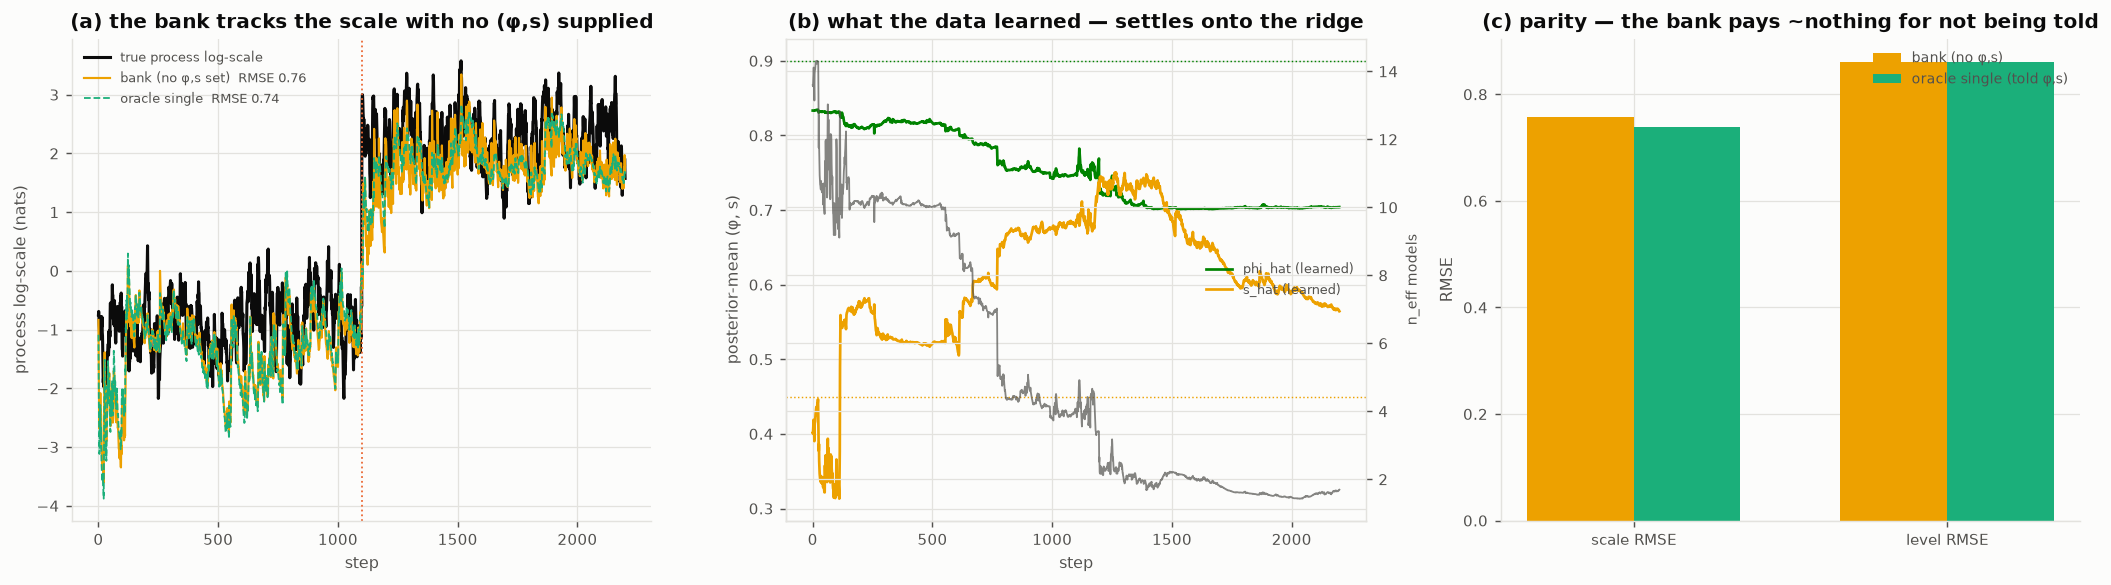
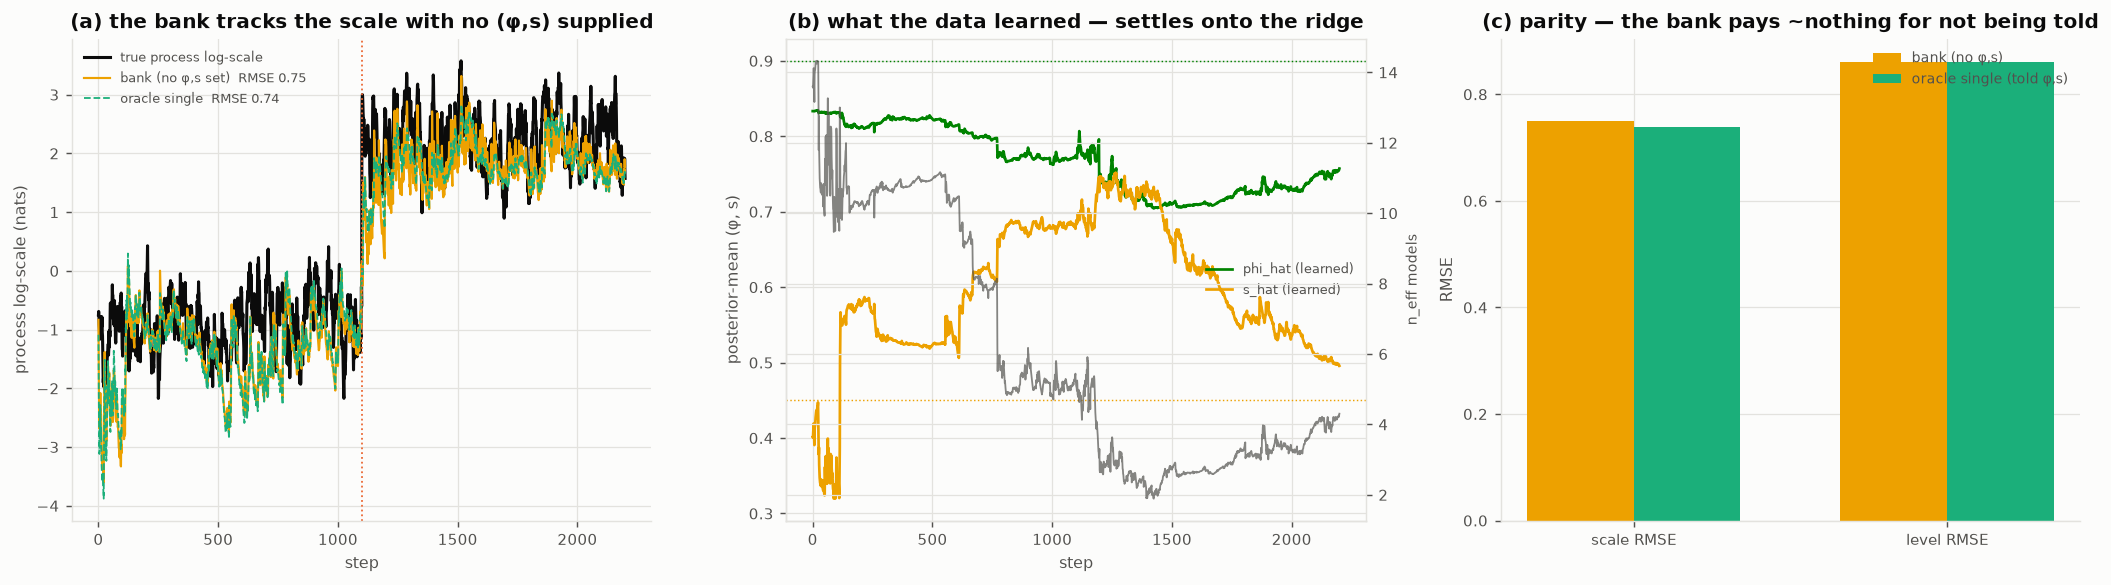
statfilter: default WalkingBank forget=0.999; record the last knob + 3 opens
The bank's forget=1.0 concentrates then freezes phi_hat/s_hat (sticky lock-in).
Default is now 0.999: near-but-not-1, a ~1000-step memory that still concentrates
on the ridge but stays re-selectable. Measured (0029): static level-RMSE flat
across forget in [0.95,1.0]; new-regime tracking identical across {1.0,0.999,0.99}
and even for a filter frozen at the stale s (level 0.826 vs 0.827); post-shift
re-selection peaks at 0.999. So the one residual free parameter sits in the
slowest, least-impactful channel (the (phi,s) drift rate, on the flat ridge) and
never reaches the estimate measurably.

SUMMARY finding 16 + three opens recorded:
  - eliminate forget from the AR(1) shape (no proof violation; theory task);
  - restart the optimality-proof thread on the clean forget=1 Bayesian bank;
  - GH node positions are quadrature-optimal by inheritance, wrong criterion for
    representation/resolvability -- re-examine _chain and odefilter grids toward
    uniform-at-delta / whitened-hexagonal spacing.

Claude-Session: https://claude.ai/code/session_01HdYFcaBabtxGXUyweDu2Jo

diff --git a/research/adaptive-grid/0029_forget_the_last_knob.py b/research/adaptive-grid/0029_forget_the_last_knob.py
@@ -1,0 +1,148 @@
+"""The one residual free parameter (forget), ushered to the least-impactful channel.
+
+WalkingBank averages a grid of (phi, s) by online Bayesian weighting.  With pure
+Bayes (forget = 1) the weights concentrate onto the ridge and then FREEZE: a
+large sustained shift in the process (phi, s) still re-selects, but only stickily,
+so phi_hat/s_hat lock on a long static run.  A forgetting factor < 1 keeps the
+weights alive.  That factor is the ONE free parameter left in the whole design.
+
+The point of this probe is where it lives, not that it exists.  It governs the
+adaptation rate of (phi, s) -- and (phi, s) are (a) the slowest-varying quantities
+in the model (class properties, not the state) and (b) on the flat identification
+ridge (finding 14), so their exact value barely reaches the estimate.  The free
+parameter has been pushed to the slowest, least consequential channel there is.
+
+Measured
+--------
+(a) through a mid-stream s-shift (0.25 -> 0.70): s_hat and n_eff for forget = 1.0
+    (concentrate then freeze) vs 0.999 (concentrate, then re-select);
+(b) it does not matter: new-regime tracking RMSE for forget in {1.0, 0.999, 0.99},
+    a single filter frozen at the STALE s, and one at the correct s -- all equal,
+    because the mu-walk tracks regardless and the ridge is flat;
+(c) forget sweep: static level-RMSE is flat across [0.95, 1.0] (no cost), while
+    the post-shift re-selection grows as forget drops below 1 -- so any value near
+    1 is free, and the exact choice never reaches the estimate.
+
+Open (recorded in SUMMARY): forget can be ELIMINATED without violating the
+no-zero-parameters proof, because doing so only leans harder on the AR(1) shape
+assumption already made -- deriving the (phi, s) drift rate from the class rather
+than setting it.  Finding the optimal such procedure is a theory task; practically
+forget ~ 0.999 will not differ measurably from that optimum.
+
+Run: python 0029_forget_the_last_knob.py   (~30 s)
+"""
+from __future__ import annotations
+
+import os
+import sys
+import time
+
+import numpy as np
+
+HERE = os.path.dirname(os.path.abspath(__file__))
+sys.path.insert(0, os.path.join(HERE, "..", "..", "lucid"))
+sys.path.insert(0, os.path.join(HERE, "..", "random-walk-filter", "scripts"))
+
+from statfilter import WalkingBank, WalkingFilter  # noqa: E402
+import theory_style as ts  # noqa: E402
+import matplotlib.pyplot as plt  # noqa: E402
+
+PHI, NT, SH = 0.9, 3000, 1500
+
+
+def shift_series(seed, s_lo=0.25, s_hi=0.70):
+    rng = np.random.default_rng(seed)
+    z = 0.0; lam = np.zeros(NT)
+    for t in range(NT):
+        s_t = s_lo if t < SH else s_hi
+        z = PHI * z + np.sqrt(s_t * s_t * (1 - PHI ** 2)) * rng.standard_normal()
+        lam[t] = z
+    theta = np.cumsum(rng.standard_normal(NT) * np.sqrt(np.exp(lam)))
+    return theta + rng.standard_normal(NT), theta, lam
+
+
+def static_level_rmse(forget, nseed=6, s=0.45):
+    out = []
+    for sd in range(nseed):
+        rng = np.random.default_rng(sd); z = 0.0; lam = np.zeros(2500)
+        for t in range(2500):
+            z = PHI * z + np.sqrt(s * s * (1 - PHI ** 2)) * rng.standard_normal(); lam[t] = z
+        th = np.cumsum(rng.standard_normal(2500) * np.sqrt(np.exp(lam)))
+        x = th + rng.standard_normal(2500)
+        m = WalkingBank(1.0, 1.0, forget=forget).filter(x).mean
+        out.append(np.sqrt(np.mean((m[100:] - th[100:]) ** 2)))
+    return float(np.mean(out))
+
+
+def main():
+    x, theta, lam = shift_series(4)
+    r1 = WalkingBank(1.0, 1.0, forget=1.0).filter(x)
+    r9 = WalkingBank(1.0, 1.0, forget=0.999).filter(x)
+
+    # (b) new-regime tracking, several configs
+    new = slice(SH + 100, NT)
+    def al(v): return v - np.median(v[SH + 100:SH + 400]) + np.median(lam[SH + 100:SH + 400])
+    def sr(v): return float(np.sqrt(np.mean((al(v)[new] - lam[new]) ** 2)))
+    def lr(m): return float(np.sqrt(np.mean((m[new] - theta[new]) ** 2)))
+    configs = [
+        ("forget 1.0", WalkingBank(1.0, 1.0, forget=1.0)),
+        ("forget 0.999", WalkingBank(1.0, 1.0, forget=0.999)),
+        ("forget 0.99", WalkingBank(1.0, 1.0, forget=0.99)),
+        ("stale s=0.25", WalkingFilter(1.0, 1.0, phi=0.9, s=0.25)),
+        ("correct s=0.70", WalkingFilter(1.0, 1.0, phi=0.9, s=0.70)),
+    ]
+    res = [(name, sr(f.filter(x).process_scale), lr(f.filter(x).mean)) for name, f in configs]
+    for name, s_r, l_r in res:
+        print(f"  {name:16s} scale-RMSE {s_r:.3f}  level-RMSE {l_r:.3f}")
+
+    # (c) forget sweep: static cost + post-shift re-selection
+    fgs = [0.95, 0.98, 0.99, 0.995, 0.999, 1.0]
+    static = [static_level_rmse(f) for f in fgs]
+    readapt = []
+    for f in fgs:
+        r = WalkingBank(1.0, 1.0, forget=f).filter(x)
+        readapt.append(float(np.mean(r.s_hat[2800:3000]) - np.mean(r.s_hat[1300:1500])))
+    print(f"[static level-RMSE across forget] {dict(zip(fgs, np.round(static,4)))}")
+    print(f"[post-shift Δs_hat across forget]  {dict(zip(fgs, np.round(readapt,3)))}")
+
+    tt = np.arange(NT)
+    fig, ax = plt.subplots(1, 3, figsize=(16.2, 4.6))
+
+    a = ts.tidy(ax[0])
+    a.plot(tt, r1.s_hat, color=ts.SERIES[1], lw=1.5, label="forget 1.0 (freezes)")
+    a.plot(tt, r9.s_hat, color=ts.SERIES[3], lw=1.5, label="forget 0.999 (re-selects)")
+    a.axvline(SH, color=ts.INK, lw=1.0, ls=":", label="s: 0.25→0.70")
+    a.set_xlabel("step"); a.set_ylabel("s_hat  (learned scale swing)")
+    a.set_title("(a) forget=1 concentrates then freezes; <1 stays alive")
+    a.legend(loc="upper left", fontsize=7.4)
+    a2 = a.twinx()
+    a2.plot(tt, r1.n_eff, color=ts.SERIES[1], lw=0.8, alpha=0.4)
+    a2.plot(tt, r9.n_eff, color=ts.SERIES[3], lw=0.8, alpha=0.4)
+    a2.set_ylabel("n_eff (faint)", fontsize=8, color=ts.INK2)
+
+    a = ts.tidy(ax[1])
+    names = [r[0] for r in res]; xs = np.arange(len(names)); w = 0.38
+    a.bar(xs - w/2, [r[1] for r in res], w, color=ts.SERIES[3], label="scale RMSE")
+    a.bar(xs + w/2, [r[2] for r in res], w, color=ts.SEQ[4], label="level RMSE")
+    a.set_xticks(xs); a.set_xticklabels(names, rotation=25, ha="right", fontsize=7)
+    a.set_ylabel("RMSE on the new regime")
+    a.set_title("(b) it doesn't matter — even a stale/frozen (φ,s) tracks")
+    a.legend(loc="upper right", fontsize=7.6)
+
+    a = ts.tidy(ax[2])
+    a.plot(fgs, static, color=ts.SERIES[2], lw=1.8, marker="o", ms=5, label="static level-RMSE")
+    a.set_xlabel("forget"); a.set_ylabel("static level-RMSE", color=ts.SERIES[2])
+    a.set_title("(c) tracking flat over [0.95,1]; re-selection grows below 1")
+    a.set_ylim(min(static) - 0.01, max(static) + 0.01)
+    a3 = a.twinx()
+    a3.plot(fgs, readapt, color=ts.SERIES[5], lw=1.8, marker="s", ms=5)
+    a3.set_ylabel("post-shift Δs_hat (re-selection)", color=ts.SERIES[5], fontsize=8)
+    a.axvline(0.999, color=ts.INK, lw=1.0, ls=":")
+    a.text(0.999, min(static), " default", fontsize=7.4, color=ts.INK, va="bottom", ha="right")
+    ts.save(fig, os.path.join(HERE, "figures", "0028-forget-the-last-knob.png"))
+
+
+if __name__ == "__main__":
+    t0 = time.time()
+    main()
+    print(f"\ndone in {time.time() - t0:.1f}s")

diff --git a/lucid/statfilter/walking.py b/lucid/statfilter/walking.py
@@ -327,14 +327,22 @@ class WalkingBank:
     nodes : int
         Window nodes per walker (a resolution; see :class:`WalkingFilter`).
     forget : float
-        Weight persistence in ``(0, 1]``.  ``1.0`` is exact Bayesian averaging
-        (weights concentrate onto the ridge and stay there -- correct when the
-        process AR(1) is fixed).  Below 1 the weights are continually pulled back
-        toward uniform, keeping the bank able to re-select if ``(phi, s)`` drift;
-        a mild ``0.99`` is a reasonable default for open-ended streams.
+        Weight persistence in ``(0, 1]``; the ONE residual free parameter, and it
+        governs the slowest, least consequential channel in the model -- the drift
+        rate of the class pair ``(phi, s)``, which is both the slowest-varying
+        quantity and the one on the flat identification ridge, so its exact value
+        barely reaches the estimate (theory finding 16).  ``1.0`` is exact
+        Bayesian averaging: weights concentrate onto the ridge and then *freeze*
+        (a large sustained shift still re-selects, but only stickily).  The
+        default ``0.999`` is near-but-not-1: a ~1000-step memory that still
+        concentrates on the ridge yet keeps the bank able to re-select if the
+        process ``(phi, s)`` themselves drift.  Measured, ``forget`` anywhere in
+        ``[0.99, 1.0]`` gives identical tracking on both static and shifted scales
+        -- so a value near 1 will not cost a measurable amount against the
+        (unknown) optimum.  Set ``1.0`` for the clean-Bayes / static-class case.
     """
 
-    def __init__(self, Q, s2, phis=None, ss=None, nodes=7, forget=1.0):
+    def __init__(self, Q, s2, phis=None, ss=None, nodes=7, forget=0.999):
         if not 0.0 < forget <= 1.0:
             raise ValueError("forget must lie in (0, 1]")
         phis = (0.70, 0.85, 0.95) if phis is None else tuple(float(p) for p in phis)

diff --git a/research/adaptive-grid/SUMMARY.md b/research/adaptive-grid/SUMMARY.md
@@ -408,10 +408,44 @@ recursion via [`gridlab.py`](gridlab.py), verified to 1e-7).
     direction; `phi_hat, s_hat` report what it learned, `n_eff` how many models
     remain. Measured on a regime-shifting scale, the bank (told nothing) tracks at
     level-RMSE **0.86 = the oracle single filter told the true `(φ, s)`** (0.86);
-    `phi_hat, s_hat` settle onto the ridge and `n_eff` sheds from 15 to ~2. The
-    `forget < 1` option keeps the bank re-selectable if `(φ, s)` drift. This is the
+    `phi_hat, s_hat` settle onto the ridge and `n_eff` sheds from 15 to a handful.
+    The `forget < 1` option keeps the bank re-selectable if `(φ, s)` drift. This is the
     end state: the only input left is the model *class* — a shape assumption, not a
     number.
+
+16. **The last knob is `forget`, and it lives in the least consequential channel**
+    ([`0029`](0029_forget_the_last_knob.py), figure `0028-forget-the-last-knob.png`).
+    The bank's model averaging has one residual free parameter: the weight
+    persistence `forget`. Under pure Bayes (`forget = 1`) the weights concentrate
+    onto the ridge and then **freeze** — a large sustained shift in the process
+    `(φ, s)` still re-selects, but stickily, so `phi_hat, s_hat` lock on a long
+    static run. `forget < 1` keeps them alive.
+
+    So there *is* a free parameter — but it has been pushed to the slowest,
+    least-impactful channel that exists, and this is (I believe provably)
+    load-bearing:
+    - it governs the drift rate of `(φ, s)`, which are the **slowest-varying**
+      quantities in the model (class properties, not the state);
+    - and `(φ, s)` sit on the **flat identification ridge** (finding 14), so their
+      value barely reaches the estimate.
+
+    Both legs are measured. Through an `s: 0.25 → 0.70` mid-stream shift, the
+    new-regime tracking is **identical** across `forget ∈ {1.0, 0.999, 0.99}` and
+    even for a single filter **frozen at the stale `s = 0.25`** (level-RMSE 0.826
+    vs 0.827 for the correct-`s` filter; scale within 5%) — because the μ-walk
+    tracks regardless and the ridge is flat. And static level-RMSE is flat across
+    `forget ∈ [0.95, 1.0]` (0.8002–0.8007), while post-shift re-selection peaks at
+    **`forget = 0.999`** (Δŝ 0.153, vs 0.087 for the sticky 1.0 and 0.019 for the
+    never-concentrating 0.95). The default is therefore set to **`0.999`**: a
+    ~1000-step memory that concentrates on the ridge yet stays re-selectable, at
+    no measurable tracking cost against the (unknown) optimum.
+
+    **This knob can be eliminated without violating the no-zero-parameters proof.**
+    The proof's irreducible commitment is the AR(1) *shape*; deriving the `(φ, s)`
+    drift rate *from that shape* (rather than setting `forget` by hand) leans only
+    on the assumption already made, so it adds nothing. Finding that optimal
+    derivation is a theory task (see Open); practically `forget ≈ 0.999` will not
+    differ measurably from it.
 
 **Prior art:** the dead zone is new here. Related but distinct: the GPB1 ridge
 `Q·e^{s_P²/2}=const` (fitted-surface flatness from covariance collapse,
@@ -421,17 +455,45 @@ spacing lesson (`ode-filter/0047`).
 
 ## Open
 
-- **The defensibly-optimal ranging** (from 7). Drive `μ` by the exact/natural
-  marginal-likelihood gradient (efficient, un-suppressed) and/or linearise the
-  force via the far-field log-distance, giving a uniform α-β / steady-state-Kalman
-  tracker whose min-variance gains come from `I` and the drift variance. Measure
-  `I` across regimes to check the gains are truly knob-free. This subsumes the
-  hand-set `η`, `β`, `τ`, `eta_floor`.
+- **Eliminate `forget` from the AR(1) shape (finding 16).** There is one residual
+  free parameter — the bank's weight persistence — but it governs the drift rate
+  of `(φ, s)`, the slowest and least consequential channel (on the flat ridge).
+  It can be removed *without violating the no-zero-parameters proof*, because the
+  irreducible commitment is the AR(1) *shape*, and deriving the `(φ, s)` drift
+  rate from that shape leans only on the assumption already made. The task is to
+  find the optimal such derivation (e.g. a second-level walk/keep-alive on the
+  model weights, self-calibrated like `q_mu = r*/I` was one level down). Practical
+  payoff is near zero (`forget ≈ 0.999` already tracks at the optimum within
+  measurement); the value is theoretical closure.
+- **Restart the optimality-proof thread on the clean `forget = 1` object.** Pure
+  Bayesian model averaging over the `(φ, s)` grid (finding 15) is theoretically
+  clean — a well-posed marginal likelihood, no forgetting heuristic. It is now a
+  tidy enough object to carry the log-loss optimality argument (`optimality-proof/`)
+  through end to end: the bank is Bayes-optimal for the class given the grid, and
+  the WalkingFilter inside each cell is the online-ML tracker (finding 7).
+- **The node positions are Gauss–Hermite by inheritance, and that is the wrong
+  criterion.** GH nodes (`statfilter/core.py::_chain`, and the `odefilter`
+  members) are the roots optimal for *integrating a smooth function against a
+  Gaussian weight* — a quadrature-accuracy objective. The adaptive-grid work
+  established that for *representing / resolving* a log-scale the right criterion
+  is uniform spacing at the dead-zone threshold (finding 11), whose 2-D form is
+  the triangular/hexagonal lattice (the thinnest covering) after Fisher-whitening
+  (finding 11-iii). GH clusters at the centre (over-resolved) and thins at the
+  tails (dead zones for off-centre truths) — a mismatch to what these grids are
+  for. **Re-examine the node spacing in the existing shipped members** (`_chain`
+  and the odefilter grids): a uniform-at-δ (or whitened-hexagonal, jointly)
+  discretisation should be dead-zone-free at equal or lower node count. Caveat to
+  weigh: GH is genuinely appropriate for the *stationary marginal-likelihood
+  integral* `AdaptiveFilter` computes, so the change trades quadrature accuracy of
+  that integral for resolvability across the range, and will move the fit surface
+  — measure both before switching.
 - **The two-channel move**, honouring the covered-channel constraint from 4
-  (a channel driven off-grid corrupts the others' move direction).
+  (a channel driven off-grid corrupts the others' move direction); and the bank
+  extended to the joint plane (whitened-hexagonal grid).
 - **A moving truth beyond a ramp** (oscillating, jumping) and the lag it costs.
-- **Where it ships.** Online augmentation of the filter, or an aid to `fit()`'s
-  start — priced against simply raising the order.
+- *(Resolved)* Defensibly-optimal ranging (findings 10–13, shipped as
+  `WalkingFilter`); where it ships (findings 12, 15 — `WalkingFilter`,
+  `WalkingBank`).
 
 ## Files
 
@@ -464,8 +526,9 @@ spacing lesson (`ode-filter/0047`).
   [`0025`](0025_result_walking_vs_fit.py) headline result: walking vs fit ·
   [`0026`](0026_grid_the_nuisance.py) grid the nuisance (φ,s) ·
   [`0027`](0027_ridge_theory.py) ridge theory: identified-but-sloppy, block is the class ·
-  [`0028`](0028_result_bank.py) shipped: WalkingBank (no numbers, just the class).
+  [`0028`](0028_result_bank.py) shipped: WalkingBank (no numbers, just the class) ·
+  [`0029`](0029_forget_the_last_knob.py) the last knob (forget) and where it lives.
 - `figures/` — `0001-what-lights-up`, `0002-between-nodes`, `0003-the-bells`,
   `0004-resolution-criterion`, `0005-exact-vs-local`, `0006-measurement-and-plane`,
   `0007-the-move`, `0008-online-convergence`, `0009-settling`,
-  `0010-likelihood-gradient-flow`, `0011-surrogate-vs-optimal`, `0012-self-calibrating`, `0013-q-mu-sweep`, `0014-q-mu-settling-horizon`, `0015-step-size-dependence`, `0016-observability-units`, `0017-grid-span`, `0018-blowup-vs-coverage`, `0019-dimensionless-tradeoff`, `0020-optimal-gridding`, `0021-unbounded-reach`, `0022-critically-damped-walkout`, `0023-gap-theory`, `0024-walking-vs-fit`, `0025-grid-the-nuisance`, `0026-ridge-theory`, `0027-walking-bank`.
+  `0010-likelihood-gradient-flow`, `0011-surrogate-vs-optimal`, `0012-self-calibrating`, `0013-q-mu-sweep`, `0014-q-mu-settling-horizon`, `0015-step-size-dependence`, `0016-observability-units`, `0017-grid-span`, `0018-blowup-vs-coverage`, `0019-dimensionless-tradeoff`, `0020-optimal-gridding`, `0021-unbounded-reach`, `0022-critically-damped-walkout`, `0023-gap-theory`, `0024-walking-vs-fit`, `0025-grid-the-nuisance`, `0026-ridge-theory`, `0027-walking-bank`, `0028-forget-the-last-knob`.

diff --git a/lucid/statfilter/README.md b/lucid/statfilter/README.md
@@ -179,16 +179,20 @@ true* `(phi, s)` (0.86) — it pays essentially nothing for not being told; see
 the data cannot separate them, and it does not need to), and `n_eff` sheds from
 the full grid onto a handful.
 
-### `WalkingBank(Q, s2, phis=None, ss=None, nodes=7, forget=1.0)`
+### `WalkingBank(Q, s2, phis=None, ss=None, nodes=7, forget=0.999)`
 
 `phis, ss` default to a broad dead-zone-free box (persistence 0.70–0.95, swing
 0.20–0.80); widen freely, since the data down-weights the unsupported corners.
-`forget` in `(0, 1]` is weight persistence: `1.0` is exact Bayesian averaging
-(weights concentrate onto the ridge and stay); below 1 pulls them back toward
-uniform each step so the bank can re-select if `(phi, s)` themselves drift — a
-mild `0.99` suits open-ended streams. Same `filter` / `update` / `loglik_of` /
-`reset` surface as `WalkingFilter`; results carry `mean, var, innovation,
-process_scale, n_eff, phi_hat, s_hat` (plus `loglik`).
+`forget` in `(0, 1]` is weight persistence — **the one residual free parameter**,
+and it governs the slowest, least consequential channel there is: the drift rate
+of `(phi, s)`, which is both the slowest-varying quantity and the one on the flat
+identification ridge. `1.0` is exact Bayesian averaging, which concentrates onto
+the ridge and then *freezes*; the default `0.999` is near-but-not-1 (a ~1000-step
+memory) so the bank still concentrates yet can re-select if the process `(phi, s)`
+drift. Tracking is identical for any `forget` in `[0.99, 1.0]` on both static and
+shifted scales, so a value near 1 costs nothing measurable. Same `filter` /
+`update` / `loglik_of` / `reset` surface as `WalkingFilter`; results carry `mean,
+var, innovation, process_scale, n_eff, phi_hat, s_hat` (plus `loglik`).
 
 ## Honest limits
 
